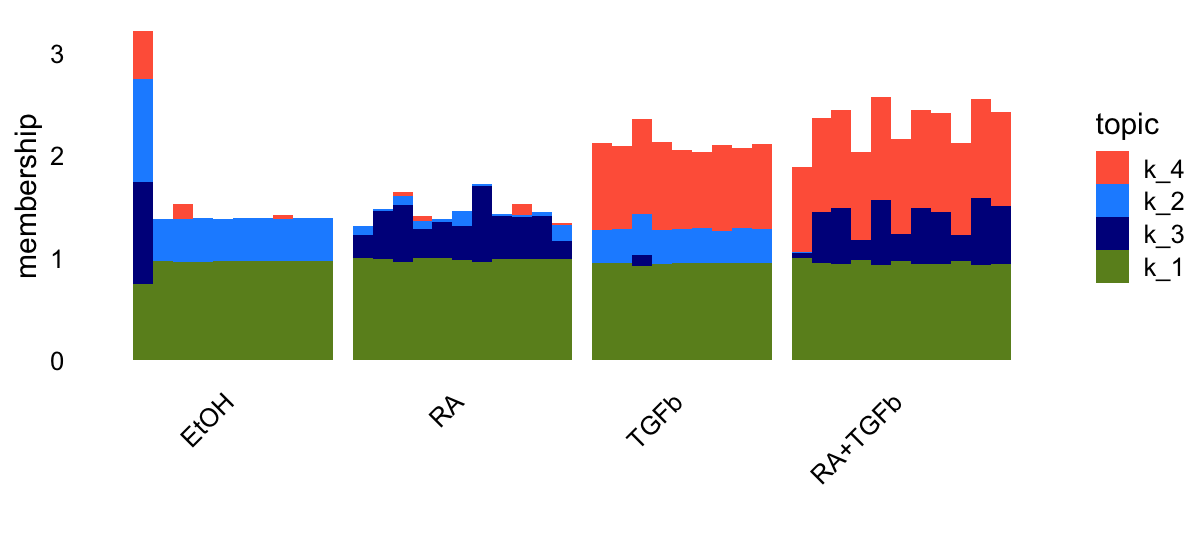
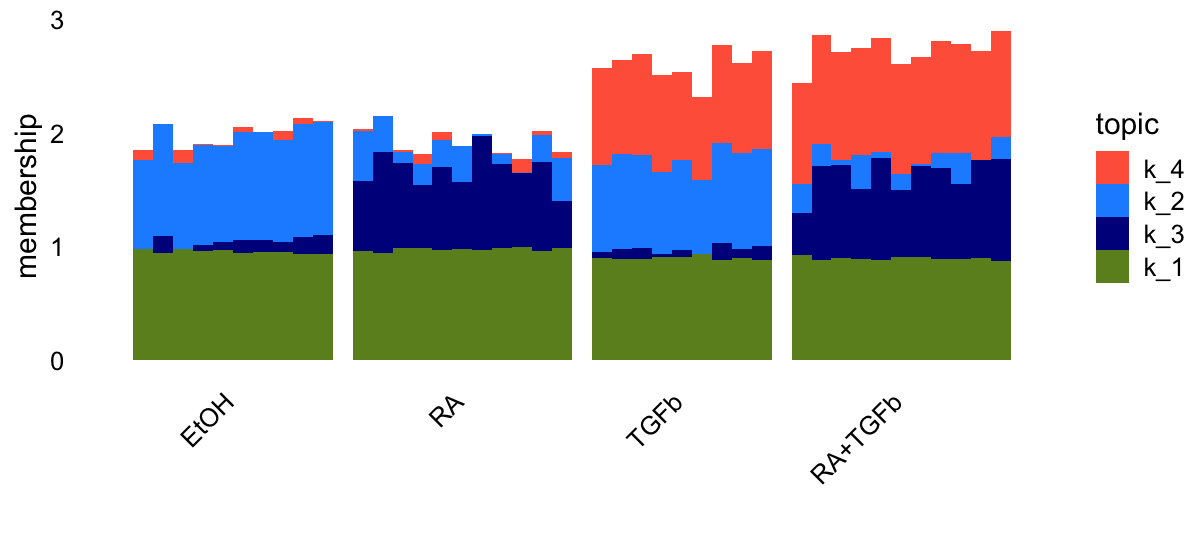
Ran wflow_publish("analysis/mcf7.Rmd").

diff --git a/docs/mcf7.html b/docs/mcf7.html
@@ -307,7 +307,7 @@ aria-hidden="true"></span> </a>
 <div class="tab-content">
 <div id="summary" class="tab-pane fade in active">
 <p>
-<strong>Last updated:</strong> 2025-06-02
+<strong>Last updated:</strong> 2025-06-03
 </p>
 <p>
 <strong>Checks:</strong> <span
@@ -419,6 +419,15 @@ The following chunks had caches available:
 <li>
 flashier-nmf
 </li>
+<li>
+log1pNMF-c01
+</li>
+<li>
+log1pNMF-c1
+</li>
+<li>
+log1pNMF-c10
+</li>
 </ul>
 <p>To ensure reproducibility of the results, delete the cache directory
 <code>mcf7_cache</code> and re-run the analysis. To have workflowr
@@ -446,15 +455,15 @@ project makes it easier to run your code on other machines.</p>
 <div class="panel panel-default">
 <div class="panel-heading">
 <p class="panel-title">
-<a data-toggle="collapse" data-parent="#workflowr-checks" href="#strongRepositoryversionstrongahrefhttpsgithubcomeweinelog1pexperimentstreedc8a6329b8905925ef1407194d1ad611ff85f639targetblankdc8a632a">
+<a data-toggle="collapse" data-parent="#workflowr-checks" href="#strongRepositoryversionstrongahrefhttpsgithubcomeweinelog1pexperimentstree73f3329e3729d969a5ebfb10d10523869952b49ftargetblank73f3329a">
 <span class="glyphicon glyphicon-ok text-success"
 aria-hidden="true"></span> <strong>Repository version:</strong>
-<a href="https://github.com/eweine/log1p_experiments/tree/dc8a6329b8905925ef1407194d1ad611ff85f639" target="_blank">dc8a632</a>
+<a href="https://github.com/eweine/log1p_experiments/tree/73f3329e3729d969a5ebfb10d10523869952b49f" target="_blank">73f3329</a>
 </a>
 </p>
 </div>
 <div
[2 lines of base64/hex data omitted]
 class="panel-collapse collapse">
 <div class="panel-body">
 <p>
@@ -464,7 +473,7 @@ reproducibility.
 </p>
 <p>
 The results in this page were generated with repository version
-<a href="https://github.com/eweine/log1p_experiments/tree/dc8a6329b8905925ef1407194d1ad611ff85f639" target="_blank">dc8a632</a>.
+<a href="https://github.com/eweine/log1p_experiments/tree/73f3329e3729d969a5ebfb10d10523869952b49f" target="_blank">73f3329</a>.
 See the <em>Past versions</em> tab to see a history of the changes made
 to the R Markdown and HTML files.
 </p>
@@ -478,9 +487,6 @@ depends on. Below is the status of the Git repository when the results
 were generated:
 </p>
 <pre><code>
-Ignored files:
-    Ignored:    analysis/figure/
-
 Untracked files:
     Untracked:  analysis/mcf7_cache/
     Untracked:  data/pancreas.RData
@@ -528,6 +534,57 @@ Message
 </tr>
 </thead>
 <tbody>
+<tr>
+<td>
+Rmd
+</td>
+<td>
+<a href="https://github.com/eweine/log1p_experiments/blob/73f3329e3729d969a5ebfb10d10523869952b49f/analysis/mcf7.Rmd" target="_blank">73f3329</a>
+</td>
+<td>
+Peter Carbonetto
+</td>
+<td>
+2025-06-03
+</td>
+<td>
+wflow_publish("analysis/mcf7.Rmd", verbose = TRUE, view = FALSE)
+</td>
+</tr>
+<tr>
+<td>
+Rmd
+</td>
+<td>
+<a href="https://github.com/eweine/log1p_experiments/blob/8b182ff1b0f09f0b90bd70a7f48b67308626477c/analysis/mcf7.Rmd" target="_blank">8b182ff</a>
+</td>
+<td>
+Peter Carbonetto
+</td>
+<td>
+2025-06-03
+</td>
+<td>
+Made a few adjustments to the NNLM fit in the mcf7 analysis.
+</td>
+</tr>
+<tr>
+<td>
+html
+</td>
+<td>
+<a href="https://rawcdn.githack.com/eweine/log1p_experiments/0919644f7909eb2d780c74abf04afaf2120e6afd/docs/mcf7.html" target="_blank">0919644</a>
+</td>
+<td>
+Peter Carbonetto
+</td>
+<td>
+2025-06-02
+</td>
+<td>
+Build site.
+</td>
+</tr>
 <tr>
 <td>
 Rmd
@@ -1455,21 +1512,32 @@ one key difference: it also explicitly has a <em>baseline factor</em>
 <div id="nmf-second-attempt" class="section level2">
 <h2>NMF (second attempt)</h2>
 <p>Out of curiosity, I also tried running a “vanilla” NMF method on the
-shifted log counts just for comparison with EBNMF:</p>
+shifted log counts just for comparison with EBNMF. Note that I
+initialized the NMF in this way to make it more similar to the flashier
+result.</p>
 <pre class="r"><code>library(NNLM)
-nmf &lt;- nnmf(Y,k = 4,loss = &quot;mse&quot;,method = &quot;scd&quot;,
-            max.iter = 100,verbose = 0,n.threads = 4)</code></pre>
+k &lt;- 4
+nmf0 &lt;- nnmf(Y,k = 1,loss = &quot;mse&quot;,method = &quot;scd&quot;,
+            max.iter = 10,verbose = 0,n.threads = 4)
+W0 &lt;- nmf0$W
+H0 &lt;- nmf0$H
+n  &lt;- nrow(Y)
+m  &lt;- ncol(Y)
+W0 &lt;- cbind(W0,matrix(runif(n*(k-1)),n,k-1))
+H0 &lt;- rbind(H0,matrix(runif(m*(k-1)),k-1,m))
+nmf &lt;- nnmf(Y,k,init = list(W = W0,H = H0),loss = &quot;mse&quot;,
+            method = &quot;scd&quot;,max.iter = 100,verbose = 0,
+            n.threads = 4)</code></pre>
 <p>It is actually quite interesting to see that the loadings on the
-individual factors appear to be a bit “noisier”, and they are also less
-sparse:</p>
-<pre class="r"><code>topic_colors &lt;- c(&quot;olivedrab&quot;,&quot;tomato&quot;,&quot;darkblue&quot;,&quot;dodgerblue&quot;)
+individual factors appear to be a bit “noisier” and less sparse:</p>
+<pre class="r"><code>topic_colors &lt;- c(&quot;olivedrab&quot;,&quot;darkblue&quot;,&quot;tomato&quot;,&quot;dodgerblue&quot;)
 scale_cols &lt;- function (A, b)
   t(t(A) * b)
 W &lt;- nmf$W
 k &lt;- ncol(W)
 d &lt;- apply(W,2,max)
 W &lt;- scale_cols(W,1/d)
-structure_plot(W,grouping = samples$label,topics = c(2:4,1),
+structure_plot(W,grouping = samples$label,topics = c(3,2,4,1),
                colors = topic_colors) +
   labs(y = &quot;membership&quot;)</code></pre>
 <p><img src="figure/mcf7.Rmd/structure-plot-nnlm-1.png" width="600" style="display: block; margin: auto;" /></p>
@@ -1534,8 +1602,22 @@ setting, <span class="math inline">\(c = 10\)</span>:</p>
 fit_log1p_c10 &lt;- 
   fit_poisson_log1p_nmf(counts,K = 4,cc = 10,loglik = &quot;exact&quot;,
                         init_method = &quot;rank1&quot;,
-                        control = list(maxiter = 100,
+                        control = list(maxiter = 1000,
                                        verbose = FALSE))</code></pre>
+<div class="alert alert-warning">
+<p>
+<strong>Warning:</strong> The above code chunk cached its results, but
+it won’t be re-run if previous chunks it depends on are updated. If you
+need to use caching, it is highly recommended to also set
+<code>knitr::opts_chunk$set(autodep = TRUE)</code> at the top of the
+file (in a chunk that is not cached). Alternatively, you can customize
+the option <code>dependson</code> for each individual chunk that is
+cached. Using either <code>autodep</code> or <code>dependson</code> will
+remove this warning. See the
+<a href="https://yihui.name/knitr/options/#cache"
+>knitr cache options</a> for more details.
+</p>
+</div>
 <p>As expected, the log1p NMF model with <span class="math inline">\(c =
 10\)</span> closely recovers the topic model (aside from the inclusion
 of a “baseline” factor):</p>
@@ -1601,8 +1683,22 @@ Peter Carbonetto
 fit_log1p_c0.1 &lt;- 
   fit_poisson_log1p_nmf(counts,K = 4,cc = 0.1,loglik = &quot;exact&quot;,
                         init_method = &quot;rank1&quot;,
-                        control = list(maxiter = 100,
+                        control = list(maxiter = 1000,
                                        verbose = FALSE))</code></pre>
+<div class="alert alert-warning">
+<p>
+<strong>Warning:</strong> The above code chunk cached its results, but
+it won’t be re-run if previous chunks it depends on are updated. If you
+need to use caching, it is highly recommended to also set
+<code>knitr::opts_chunk$set(autodep = TRUE)</code> at the top of the
+file (in a chunk that is not cached). Alternatively, you can customize
+the option <code>dependson</code> for each individual chunk that is
+cached. Using either <code>autodep</code> or <code>dependson</code> will
+remove this warning. See the
+<a href="https://yihui.name/knitr/options/#cache"
+>knitr cache options</a> for more details.
+</p>
+</div>
 <p>Interestingly, the fit at this setting is different from all the
 previous results in one important respect: the “ethanol factor” does not
 contribute much to the RA samples.</p>
@@ -1636,6 +1732,17 @@ Date
 </tr>
 </thead>
 <tbody>
+<tr>
+<td>
+<a href="https://github.com/eweine/log1p_experiments/blob/0919644f7909eb2d780c74abf04afaf2120e6afd/docs/figure/mcf7.Rmd/structure-plot-log1pNMF-c01-1.png" target="_blank">0919644</a>
+</td>
+<td>
+Peter Carbonetto
+</td>
+<td>
+2025-06-02
+</td>
+</tr>
 <tr>
 <td>
 <a href="https://github.com/eweine/log1p_experiments/blob/efb64e302c25b8034a5be41be347123ae0c16933/docs/figure/mcf7.Rmd/structure-plot-log1pNMF-c01-1.png" target="_blank">efb64e3</a>
@@ -1684,64 +1791,30 @@ between the two settings:</p>
 fit_log1p_c1 &lt;- 
   fit_poisson_log1p_nmf(counts,K = 4,cc = 1,loglik = &quot;exact&quot;,
                         init_method = &quot;rank1&quot;,
-                        control = list(maxiter = 100,
-                                       verbose = FALSE))
-topic_colors &lt;- c(&quot;olivedrab&quot;,&quot;dodgerblue&quot;,&quot;darkblue&quot;,&quot;tomato&quot;)
+                        control = list(maxiter = 1000,
+                                       verbose = FALSE))</code></pre>
+<div class="alert alert-warning">
+<p>
+<strong>Warning:</strong> The above code chunk cached its results, but
+it won’t be re-run if previous chunks it depends on are updated. If you
+need to use caching, it is highly recommended to also set
+<code>knitr::opts_chunk$set(autodep = TRUE)</code> at the top of the
+file (in a chunk that is not cached). Alternatively, you can customize
+the option <code>dependson</code> for each individual chunk that is
+cached. Using either <code>autodep</code> or <code>dependson</code> will
+remove this warning. See the
+<a href="https://yihui.name/knitr/options/#cache"
+>knitr cache options</a> for more details.
+</p>
+</div>
+<pre class="r"><code>topic_colors &lt;- c(&quot;olivedrab&quot;,&quot;dodgerblue&quot;,&quot;darkblue&quot;,&quot;tomato&quot;)
 L &lt;- fit_log1p_c1$LL
 d &lt;- apply(L,2,max)
 L &lt;- scale_cols(L,1/d)
 structure_plot(L,grouping = samples$label,topics = 4:1,
                colors = topic_colors) +
   labs(y = &quot;membership&quot;)</code></pre>
-<p><img src="figure/mcf7.Rmd/log1pNMF-c1-1.png" width="600" style="display: block; margin: auto;" /></p>
-<p>
-<button type="button" class="btn btn-default btn-xs btn-workflowr btn-workflowr-fig" data-toggle="collapse" data-target="#fig-log1pNMF-c1-1">
-Past versions of log1pNMF-c1-1.png
-</button>
-</p>
-<div id="fig-log1pNMF-c1-1" class="collapse">
-<div class="table-responsive">
-<table class="table table-condensed table-hover">
-<thead>
-<tr>
-<th>
-Version
-</th>
-<th>
-Author
-</th>
-<th>
-Date
-</th>
-</tr>
-</thead>
-<tbody>
-<tr>
-<td>
-<a href="https://github.com/eweine/log1p_experiments/blob/efb64e302c25b8034a5be41be347123ae0c16933/docs/figure/mcf7.Rmd/log1pNMF-c1-1.png" target="_blank">efb64e3</a>
-</td>
-<td>
-Peter Carbonetto
-</td>
-<td>
-2025-06-02
-</td>
-</tr>
-<tr>
-<td>
-<a href="https://github.com/eweine/log1p_experiments/blob/c3a9654aebea007c38527d32a7d7c0c59aef17ad/docs/figure/mcf7.Rmd/log1pNMF-c1-1.png" target="_blank">c3a9654</a>
-</td>
-<td>
-Peter Carbonetto
-</td>
-<td>
-2025-06-02
-</td>
-</tr>
-</tbody>
-</table>
-</div>
-</div>
+<p><img src="figure/mcf7.Rmd/structure-plot-log1pNMF-c1-1.png" width="600" style="display: block; margin: auto;" /></p>
 </div>
 <div id="topic-model-with-alternative-initialization"
 class="section level2">
@@ -1866,29 +1939,28 @@ Session information
 #  [31] later_1.3.2          irlba_2.3.5.1        parallel_4.3.3      
 #  [34] prettyunits_1.2.0    R6_2.5.1             bslib_0.6.1         
 #  [37] stringi_1.8.3        RColorBrewer_1.1-3   limma_3.58.1        
-#  [40] SQUAREM_2021.1       jquerylib_0.1.4      MatrixExtra_0.1.15  
-#  [43] Rcpp_1.0.12          knitr_1.45           R.utils_2.12.3      
-#  [46] readr_2.1.5          httpuv_1.6.14        Matrix_1.6-5        
-#  [49] splines_4.3.3        tidyselect_1.2.1     rstudioapi_0.15.0   
-#  [52] yaml_2.3.8           processx_3.8.3       lattice_0.22-5      
-#  [55] tibble_3.2.1         plyr_1.8.9           withr_3.0.2         
-#  [58] evaluate_1.0.3       Rtsne_0.17           RcppParallel_5.1.10 
-#  [61] xml2_1.3.6           startupmsg_0.9.6.1   pillar_1.9.0        
-#  [64] whisker_0.4.1        plotly_4.10.4        softImpute_1.4-1    
-#  [67] generics_0.1.3       rprojroot_2.0.4      invgamma_1.1        
-#  [70] float_0.3-2          truncnorm_1.0-9      hms_1.1.3           
-#  [73] munsell_0.5.0        scales_1.3.0         ashr_2.2-66         
-#  [76] gtools_3.9.5         RhpcBLASctl_0.23-42  glue_1.8.0          
-#  [79] scatterplot3d_0.3-44 lazyeval_0.2.2       tools_4.3.3         
-#  [82] fs_1.6.5             grid_4.3.3           tidyr_1.3.1         
-#  [85] colorspace_2.1-0     sfsmisc_1.1-18       deconvolveR_1.2-1   
-#  [88] cli_3.6.4            Polychrome_1.5.1     fansi_1.0.6         
-#  [91] mixsqp_0.3-54        viridisLite_0.4.2    dplyr_1.1.4         
-#  [94] uwot_0.2.3           gtable_0.3.4         R.methodsS3_1.8.2   
-#  [97] sass_0.4.9           digest_0.6.34        ggrepel_0.9.5       
-# [100] farver_2.1.1         htmlwidgets_1.6.4    R.oo_1.26.0         
-# [103] htmltools_0.5.8.1    lifecycle_1.0.4      httr_1.4.7          
-# [106] statmod_1.5.0        MASS_7.3-60.0.1</code></pre>
+#  [40] SQUAREM_2021.1       jquerylib_0.1.4      Rcpp_1.0.12         
+#  [43] knitr_1.45           R.utils_2.12.3       readr_2.1.5         
+#  [46] httpuv_1.6.14        Matrix_1.6-5         splines_4.3.3       
+#  [49] tidyselect_1.2.1     rstudioapi_0.15.0    yaml_2.3.8          
+#  [52] processx_3.8.3       lattice_0.22-5       tibble_3.2.1        
+#  [55] plyr_1.8.9           withr_3.0.2          evaluate_1.0.3      
+#  [58] Rtsne_0.17           RcppParallel_5.1.10  xml2_1.3.6          
+#  [61] startupmsg_0.9.6.1   pillar_1.9.0         whisker_0.4.1       
+#  [64] plotly_4.10.4        softImpute_1.4-1     generics_0.1.3      
+#  [67] rprojroot_2.0.4      invgamma_1.1         truncnorm_1.0-9     
+#  [70] hms_1.1.3            munsell_0.5.0        scales_1.3.0        
+#  [73] ashr_2.2-66          gtools_3.9.5         RhpcBLASctl_0.23-42 
+#  [76] glue_1.8.0           scatterplot3d_0.3-44 lazyeval_0.2.2      
+#  [79] tools_4.3.3          fs_1.6.5             grid_4.3.3          
+#  [82] tidyr_1.3.1          colorspace_2.1-0     sfsmisc_1.1-18      
+#  [85] deconvolveR_1.2-1    cli_3.6.4            Polychrome_1.5.1    
+#  [88] fansi_1.0.6          mixsqp_0.3-54        viridisLite_0.4.2   
+#  [91] dplyr_1.1.4          uwot_0.2.3           gtable_0.3.4        
+#  [94] R.methodsS3_1.8.2    sass_0.4.9           digest_0.6.34       
+#  [97] ggrepel_0.9.5        farver_2.1.1         htmlwidgets_1.6.4   
+# [100] R.oo_1.26.0          htmltools_0.5.8.1    lifecycle_1.0.4     
+# [103] httr_1.4.7           statmod_1.5.0        MASS_7.3-60.0.1</code></pre>
 </div>
 </div>
 
